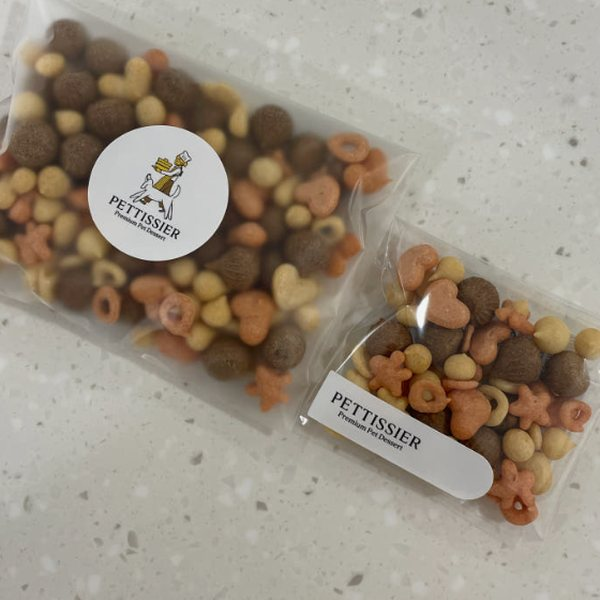
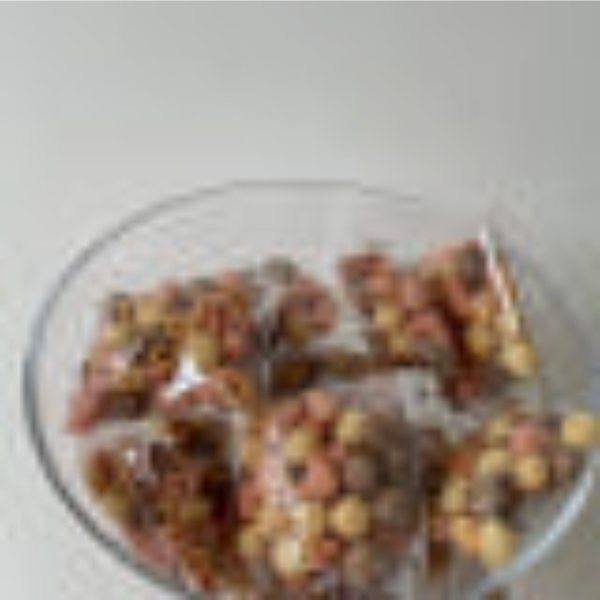
대용량 상품 썸네일·상세 사진을 기본 상품과 똑같이 맞춤 (두부 후르츠링·코코넛 고구마 볼·야채 퓨레 옐로우·그린)
Claude-Session: https://claude.ai/code/session_01AFeUMu26s4BaLSuEiGX6Xi

diff --git a/product-stories.js b/product-stories.js
@@ -1011,15 +1011,15 @@ window.PRODUCT_PHOTOS = {
   // 코코넛 고구마 볼 (6장)
   "10829745766": ["shop/img/c-10829745766/p01.jpg", "shop/img/c-10829745766/p02.jpg", "shop/img/c-10829745766/p03.jpg", "shop/img/c-10829745766/p04.jpg", "shop/img/c-10829745766/p05.jpg", "shop/img/c-10829745766/p06.jpg"],
   // 코코넛 고구마 볼 (대용량) (6장)
-  "12404550727": ["shop/img/c-12404550727/p01.jpg", "shop/img/c-12404550727/p02.jpg", "shop/img/c-12404550727/p03.jpg", "shop/img/c-12404550727/p04.jpg", "shop/img/c-12404550727/p05.jpg", "shop/img/c-12404550727/p06.jpg"],
+  "12404550727": ["shop/img/c-10829745766/p01.jpg", "shop/img/c-10829745766/p02.jpg", "shop/img/c-10829745766/p03.jpg", "shop/img/c-10829745766/p04.jpg", "shop/img/c-10829745766/p05.jpg", "shop/img/c-10829745766/p06.jpg"],
   // 야채 퓨레 옐로우 (3장)
   "12026300387": ["shop/img/c-12026300387/p01.jpg", "shop/img/c-12026300387/p02.jpg", "shop/img/c-12026300387/p03.jpg"],
   // 야채 퓨레 옐로우 (대용량) (3장)
-  "12404494073": ["shop/img/c-12404494073/p01.jpg", "shop/img/c-12404494073/p02.jpg", "shop/img/c-12404494073/p03.jpg"],
+  "12404494073": ["shop/img/c-12026300387/p01.jpg", "shop/img/c-12026300387/p02.jpg", "shop/img/c-12026300387/p03.jpg"],
   // 야채 퓨레 그린 (2장)
   "12026326721": ["shop/img/c-12026326721/p01.jpg", "shop/img/c-12026326721/p02.jpg"],
   // 야채 퓨레 그린 (대용량) (3장)
-  "12404488806": ["shop/img/c-12404488806/p01.jpg", "shop/img/c-12404488806/p02.jpg", "shop/img/c-12404488806/p03.jpg"],
+  "12404488806": ["shop/img/c-12026326721/p01.jpg", "shop/img/c-12026326721/p02.jpg"],
   // 수비드 닭가슴살 (2장)
   "13441734953": ["shop/img/c-13441734953/p02.jpg", "shop/img/c-13441734953/p03.jpg"]
 };

diff --git a/admin.html b/admin.html
@@ -147,7 +147,7 @@ h1,h2,h3{font-family:var(--serif);margin:0;line-height:1.35}
 
 <script src="firebase-config.js?v=20261104a"></script>
 <script src="shop-data.js?v=20261110c"></script>
-<script src="product-stories.js?v=20261110c"></script>
+<script src="product-stories.js?v=20261110d"></script>
 <script src="reviews-data.js?v=20261104a"></script>
 <script src="https://www.gstatic.com/firebasejs/10.12.2/firebase-app-compat.js"></script>
 <script src="https://www.gstatic.com/firebasejs/10.12.2/firebase-auth-compat.js"></script>

diff --git a/product.html b/product.html
@@ -128,7 +128,7 @@
 <script src="nav-drawer.js?v=20261104a"></script>
 <script src="firebase-config.js?v=20261104a"></script>
 <script src="shop-data.js?v=20261110c"></script>
-<script src="product-stories.js?v=20261110c"></script>
+<script src="product-stories.js?v=20261110d"></script>
 <script src="shop.js?v=20261110b"></script>
 <script src="auth.js?v=20261108a"></script>
 <script src="mall.js?v=20261104a"></script>
